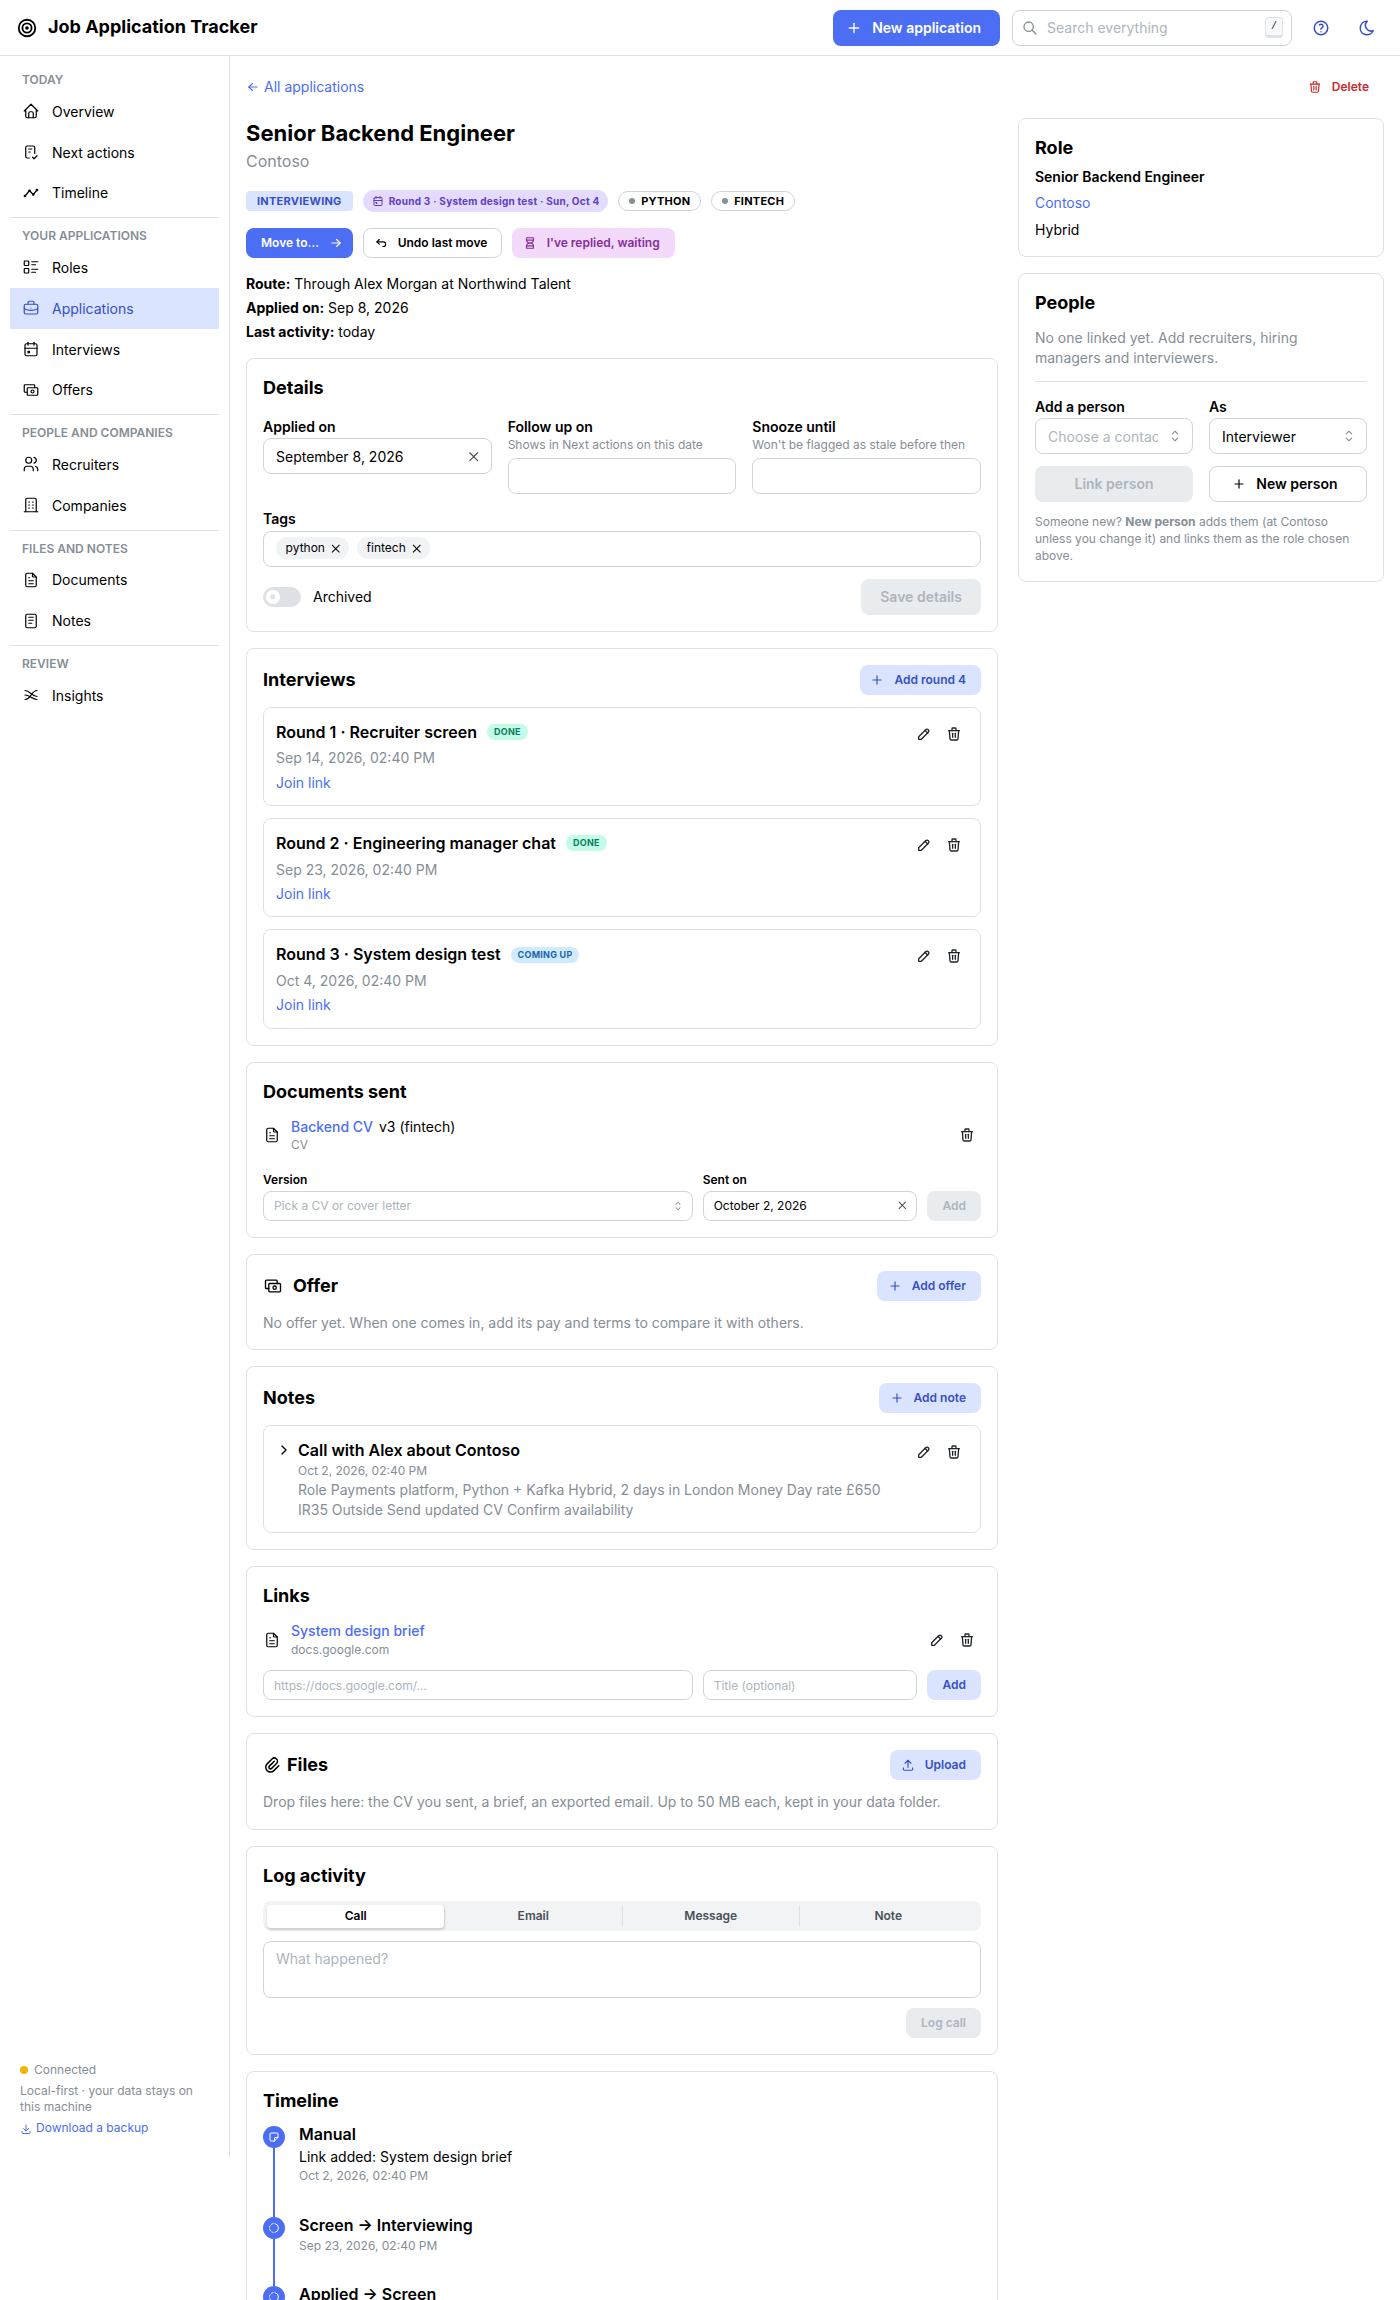
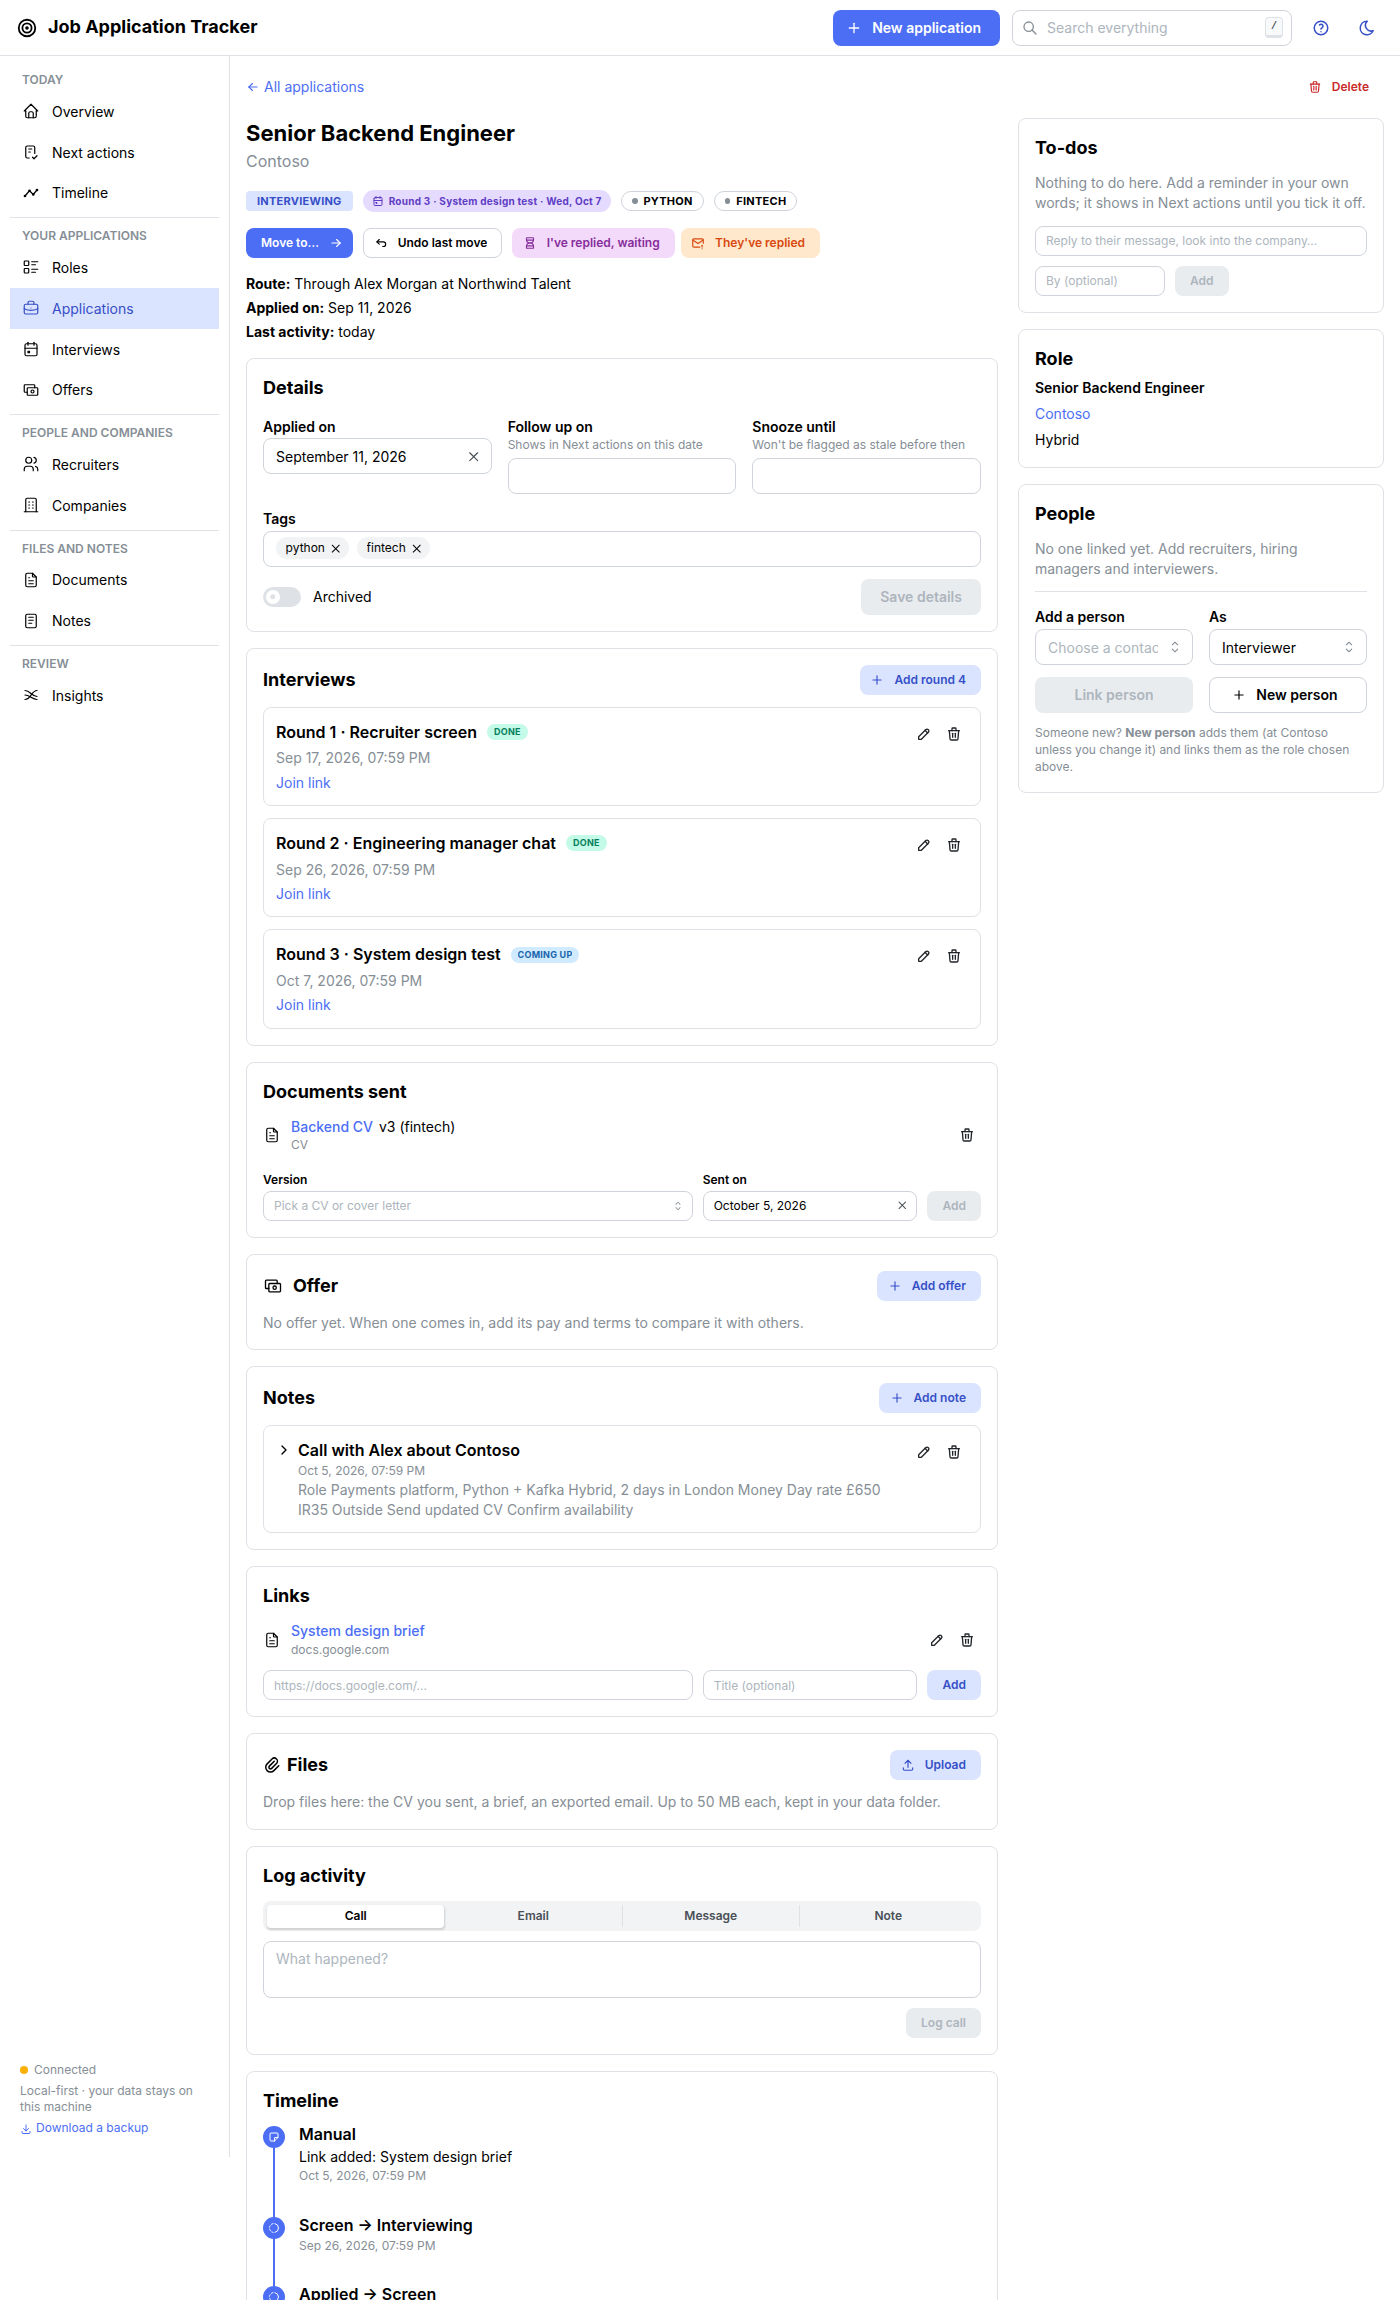
docs: replies to read in the guide, README, llms.txt and changelog; retake screenshots
The demo seed gains a reply to read on an application and from a recruiter.

diff --git a/scripts/seed_demo.py b/scripts/seed_demo.py
@@ -327,6 +327,10 @@ def seed(path: Path) -> None:
                 ),
             ]
         )
+        # They've replied and it's waiting to be read: on an application, and from a recruiter.
+        first_app["Fabrikam"].reply_to_read_since = date.today()
+        other_recruiter = [r for r in recruiters.values() if r.id != first_recruiter.id][0]
+        other_recruiter.reply_to_read_since = date.today() - timedelta(days=1)
         # To-dos in your own words: about a person, a company, a role, and one about nothing.
         fabrikam_role = s.query(Role).filter_by(title="Platform Engineer (contract)").one()
         s.add_all(

diff --git a/docs/guide/using-the-app.md b/docs/guide/using-the-app.md
@@ -61,13 +61,14 @@ applied too.
 
 Where things stand, at a glance:
 
-- **Counts**: active applications, how many need attention (to-dos due, follow-ups due,
-  gone quiet and roles to decide),
+- **Counts**: active applications, how many need attention (replies to read, to-dos due,
+  follow-ups due, gone quiet and roles to decide),
   interviews in the next two weeks, how many you're waiting to hear back from, and offers to
   answer soon. Each one opens the page with the details.
 - **Pipeline**: active applications by stage.
 - **Needs attention** and **Coming up**: the top of [Next actions](#next-actions). Needs
-  attention starts with your [to-dos](#to-dos) due today or earlier, or with no date. Coming
+  attention starts with [replies to read](#waiting-to-hear-back), then your
+  [to-dos](#to-dos) due today or earlier, or with no date. Coming
   up lists up to six interviews, task deadlines and calls in time order, then offer reply
   deadlines.
 - **Recent activity**: the last two weeks of the [Timeline](#timeline), leaving out
@@ -84,13 +85,16 @@ or roles) but no applications, the Overview shows it as usual (recent activity t
 
 What needs doing, in this order:
 
+- **Replies to read**: applications and people who've replied that you still need to read
+  (see [Waiting to hear back](#waiting-to-hear-back)), oldest first; **Read it** clears it.
 - **To-dos**: your own reminders (see [To-dos](#to-dos)): the ones due in the next two weeks
   (overdue first), then the ones with no date, then later ones. Add one here, about anything
   or nothing in particular.
 - **Offers to answer**: pending offers with a reply due in the next two weeks, or overdue.
 - **Waiting to hear back**: applications and people you've replied to (see
   [Waiting to hear back](#waiting-to-hear-back)), longest first. It turns red once you've
-  waited as long as the stage allows; **Heard back** clears it.
+  waited as long as the stage allows; **Heard back** clears it, and **They've replied** moves
+  it to *Replies to read*.
 - **How did it go?**: interview rounds and calls whose time has passed; mark them *Done* (a
   call: *Happened*, which asks how it went) or *Didn't happen*.
 - **Follow up**: applications whose follow-up date is today or earlier.
@@ -192,6 +196,12 @@ waiting** (on the application page, or on a person's page for conversations that
 one application). It goes on the timeline, the application shows how long you've been
 waiting, and it appears under *Waiting to hear back* on Next actions instead of *Gone quiet*.
 Press **Heard back** when they reply; moving the application to another stage clears it too.
+
+When they've replied but you haven't read it properly yet (it came in on your phone, or it's
+long), press **They've replied** instead, whether or not you were waiting. It goes to the top
+of Next actions under *Replies to read*, and at the top of *Needs attention* on the Overview,
+until you press **Read it**. A reply to read is never *gone quiet*; moving the application to
+another stage clears it, and undoing the move puts it back.
 
 ### Emails
 

diff --git a/README.md b/README.md
@@ -56,11 +56,11 @@ are at the top of every page.
 
 ![The Overview: counts, the pipeline by stage, what needs attention, what's coming up and recent activity](docs/screenshots/overview.png)
 
-**Next actions.** Your own to-dos, offers to answer, who you're waiting to hear back from,
+**Next actions.** Replies to read, your own to-dos, offers to answer, who you're waiting to hear back from,
 interviews and calls waiting for an outcome, follow-ups due, roles to decide on, what's coming
 up and what's gone quiet. Follow up, snooze or mark Ghosted in one click.
 
-![Next actions: your to-dos, offers to answer, waiting to hear back, follow-ups, roles to decide and what's coming up](docs/screenshots/next-actions.png)
+![Next actions: replies to read, your to-dos, offers to answer, waiting to hear back, follow-ups, roles to decide and what's coming up](docs/screenshots/next-actions.png)
 
 **Recruiters, their calls and the roles they pitch.** Book a call with an agenda, note how it
 went, add the roles they mentioned, then apply for or pass on each. Every person has a page
@@ -145,7 +145,7 @@ recruiters send roles that go somewhere.
 | ✅ | **To-dos** in your own words ("they messaged me, reply"), on their own or about a person, company, agency, role or application, with an optional date; see them on Next actions, the Overview and the page they're about, and tick them off (with undo) | ✅ Available |
 | 🤔 | **Roles to decide**: add the roles a recruiter mentions on a call, then apply (it makes the application, through them) or pass with a reason | ✅ Available |
 | 📞 | **Calls and meetings** with people, outside any one application: book a recruiter catch-up with an agenda, then note how it went; shows on Next actions, the Overview and the Timeline | ✅ Available |
-| 📨 | **Waiting to hear back**: mark that you've replied, on an application or a person, and see who to chase | ✅ Available |
+| 📨 | **Waiting to hear back**: mark that you've replied, on an application or a person, and see who to chase; when they reply, **They've replied** puts it at the top of Next actions until you've read it | ✅ Available |
 | 😴 | **One-click chasing**: set a follow-up reminder, snooze, or mark Ghosted straight from Next actions | ✅ Available |
 | 📊 | **Sankey diagram** of your funnel: applications → screens → interviews → offers, filtered by date range and route, with counts on hover | ✅ Available |
 | 📈 | **Insights**: conversion per stage, median time in stage, direct vs recruiter outcomes and weekly activity | ✅ Available |

diff --git a/CHANGELOG.md b/CHANGELOG.md
@@ -62,6 +62,8 @@ is built and merged, but not yet tested in real use. Numbers in brackets are pul
 - **To-dos**: short reminders in your own words, on their own or about a person, company,
   agency, role or application, with an optional date. Add and tick them off on Next actions,
   the Overview and the page they're about; search finds them (#55).
+- **Replies to read**: **They've replied** on an application or a person puts their reply at
+  the top of Next actions and the Overview until you press **Read it** (#56).
 
 ### Under the hood
 - Python 3.12, FastAPI, SQLAlchemy, Alembic and SQLite; React 19, TypeScript, Mantine and
